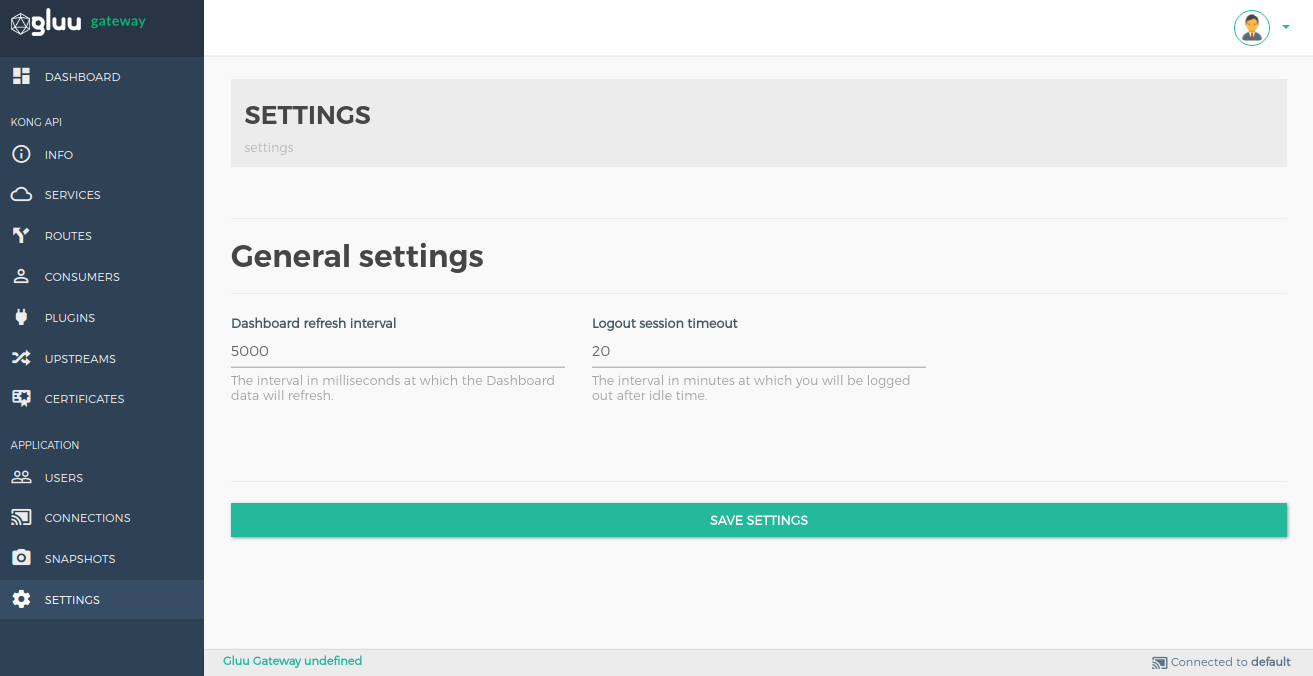
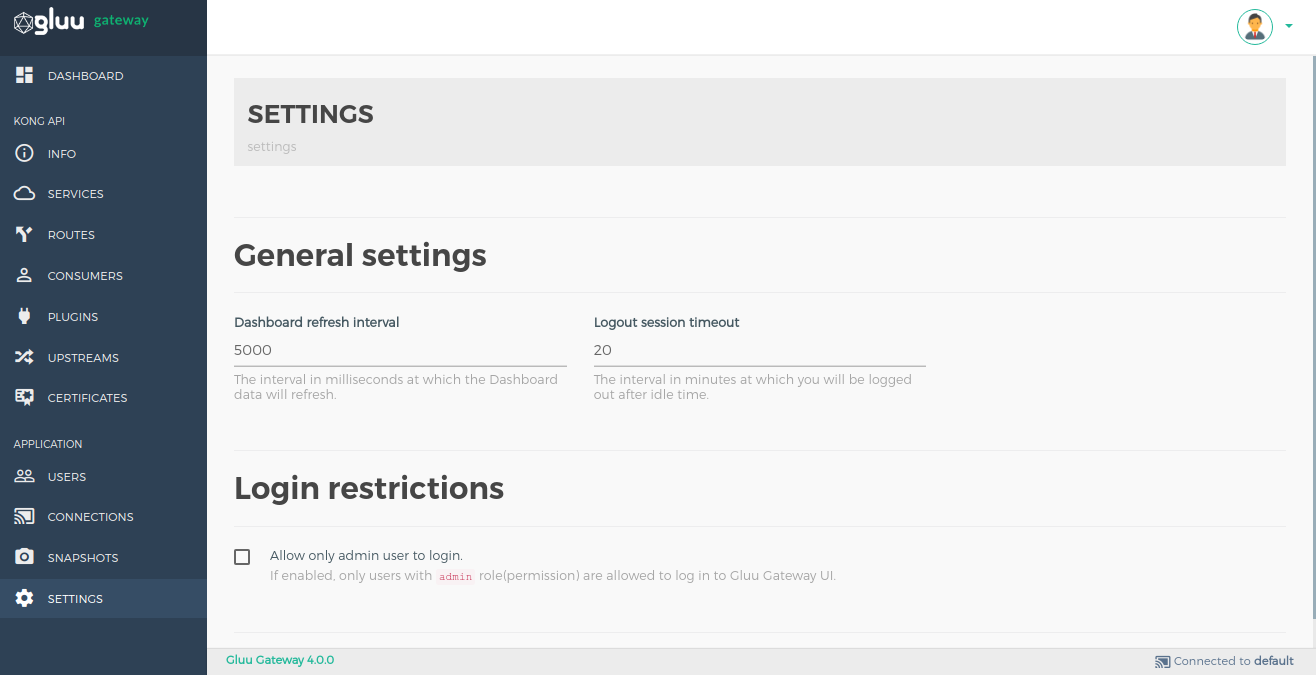
Updated docs setting section

diff --git a/4.0.beta/source/index.md b/4.0.beta/source/index.md
@@ -9,7 +9,7 @@ Gluu Gateway adds the following functionality to the Kong API Gateway:
 
 - Leverage Gluu's OAuth 2.0 authorization server for central client authentication.
 - Control access to APIs using OAuth and UMA scopes.
-- GUI to manage Kong API, Consumer and Plugin objects.
+- GUI to manage Kong Service, Route, Consumer and Plugin objects.
 - API Dashboard to configure and monitor the health of your servers.
 - Backup, restore and migrate Kong instances using snapshots.    
 

diff --git a/4.0.beta/source/admin-gui.md b/4.0.beta/source/admin-gui.md
@@ -283,6 +283,7 @@ Create schedule task using `ADD SCHEDULE` button.
 
 ## SETTINGS
 
-You can set dashboard refresh interval and logout session timeout in settings section.
+You can set dashboard refresh interval, logout session timeout and login restriction in settings section.
 
 ![settings](img/10_settings.png)
+
